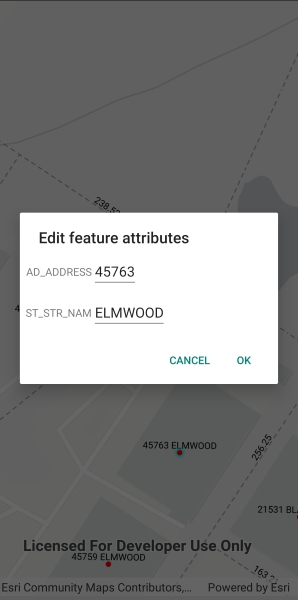
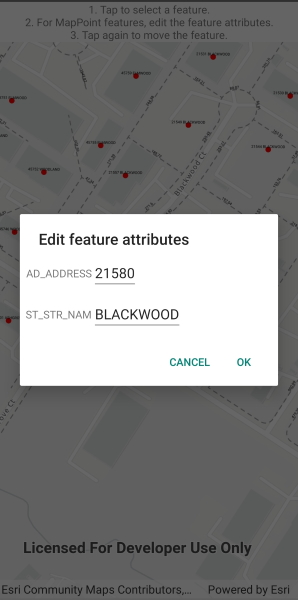
Added instructions label to all platforms

diff --git a/src/Forms/Shared/Samples/Data/EditFeatureLinkedAnnotation/EditFeatureLinkedAnnotation.xaml b/src/Forms/Shared/Samples/Data/EditFeatureLinkedAnnotation/EditFeatureLinkedAnnotation.xaml
@@ -8,44 +8,47 @@
             BindingContext="{x:Reference Name=ResponsiveFormContainer}"
             GeoViewTapped="MyMapView_GeoViewTapped"
             Style="{StaticResource MapWithFormStyle}" />
-        <resources:ResponsiveFormContainer x:Name="ResponsiveFormContainer" IsVisible="false">
-            <Grid>
-                <Grid.RowDefinitions>
-                    <RowDefinition Height="Auto" />
-                    <RowDefinition Height="Auto" />
-                    <RowDefinition Height="Auto" />
-                    <RowDefinition Height="Auto" />
-                </Grid.RowDefinitions>
-                <Grid.ColumnDefinitions>
-                    <ColumnDefinition Width="Auto" />
-                    <ColumnDefinition />
-                </Grid.ColumnDefinitions>
-                <Label
-                    Grid.Row="0" Grid.Column="0" Grid.ColumnSpan="2"
-                    Text="Edit feature attribute:" />
-                <Label
-                    Grid.Row="1" Grid.Column="0"
-                    Text="AD_ADDRESS" VerticalTextAlignment="Center" />
-                <Entry
-                    x:Name="AdressBox"
-                    Grid.Row="1" Grid.Column="1"
-                    Margin="5" />
-                <Label
-                    Grid.Row="2" Grid.Column="0"
-                    Text="ST_STR_NAM" VerticalTextAlignment="Center" />
-                <Entry
-                    x:Name="StreetNameBox"
-                    Grid.Row="2" Grid.Column="1"
-                    Margin="5" />
-                <Button
-                    Grid.Row="3" Grid.Column="0"
-                    Margin="5"
-                    Clicked="CancelClick" Text="Cancel" />
-                <Button
-                    Grid.Row="3" Grid.Column="1"
-                    Margin="5"
-                    Clicked="OkClick" Text="OK" />
-            </Grid>
+        <resources:ResponsiveFormContainer x:Name="ResponsiveFormContainer">
+            <StackLayout>
+                <Label x:Name="InstructionsText" Text="1. Tap to select a feature.&#x0a;2. For MapPoint features, edit the feature attributes.&#x0a;3. Tap again to move the feature." />
+                <Grid x:Name="AttributesGrid" IsVisible="false">
+                    <Grid.RowDefinitions>
+                        <RowDefinition Height="Auto" />
+                        <RowDefinition Height="Auto" />
+                        <RowDefinition Height="Auto" />
+                        <RowDefinition Height="Auto" />
+                    </Grid.RowDefinitions>
+                    <Grid.ColumnDefinitions>
+                        <ColumnDefinition Width="Auto" />
+                        <ColumnDefinition />
+                    </Grid.ColumnDefinitions>
+                    <Label
+                        Grid.Row="0" Grid.Column="0" Grid.ColumnSpan="2"
+                        Text="Edit feature attribute:" />
+                    <Label
+                        Grid.Row="1" Grid.Column="0"
+                        Text="AD_ADDRESS" VerticalTextAlignment="Center" />
+                    <Entry
+                        x:Name="AdressBox"
+                        Grid.Row="1" Grid.Column="1"
+                        Margin="5" />
+                    <Label
+                        Grid.Row="2" Grid.Column="0"
+                        Text="ST_STR_NAM" VerticalTextAlignment="Center" />
+                    <Entry
+                        x:Name="StreetNameBox"
+                        Grid.Row="2" Grid.Column="1"
+                        Margin="5" />
+                    <Button
+                        Grid.Row="3" Grid.Column="0"
+                        Margin="5"
+                        Clicked="CancelClick" Text="Cancel" />
+                    <Button
+                        Grid.Row="3" Grid.Column="1"
+                        Margin="5"
+                        Clicked="OkClick" Text="OK" />
+                </Grid>
+            </StackLayout>
         </resources:ResponsiveFormContainer>
     </RelativeLayout>
 </ContentPage>

diff --git a/src/WPF/ArcGISRuntime.WPF.Viewer/Samples/Data/EditFeatureLinkedAnnotation/EditFeatureLinkedAnnotation.xaml b/src/WPF/ArcGISRuntime.WPF.Viewer/Samples/Data/EditFeatureLinkedAnnotation/EditFeatureLinkedAnnotation.xaml
@@ -4,6 +4,9 @@
     xmlns:esri="http://schemas.esri.com/arcgis/runtime/2013">
     <Grid>
         <esri:MapView x:Name="MyMapView" GeoViewTapped="MyMapView_GeoViewTapped" />
+        <Border Style="{StaticResource BorderStyle}"  HorizontalAlignment="Left">
+            <TextBlock Text="1. Click to select a feature.&#x0a;2. For MapPoint features, edit the feature attributes.&#x0a;3. Click again to move the feature."/>
+        </Border>
         <Border
             x:Name="AttributesBorder"
             Style="{StaticResource BorderStyle}"

diff --git a/src/UWP/ArcGISRuntime.UWP.Viewer/Samples/Data/EditFeatureLinkedAnnotation/EditFeatureLinkedAnnotation.xaml b/src/UWP/ArcGISRuntime.UWP.Viewer/Samples/Data/EditFeatureLinkedAnnotation/EditFeatureLinkedAnnotation.xaml
@@ -4,6 +4,9 @@
     xmlns:esriUI="using:Esri.ArcGISRuntime.UI.Controls">
     <Grid>
         <esriUI:MapView x:Name="MyMapView" GeoViewTapped="MyMapView_GeoViewTapped" />
+        <Border Style="{StaticResource BorderStyle}"  HorizontalAlignment="Left">
+            <TextBlock Text="1. Click to select a feature.&#x0a;2. For MapPoint features, edit the feature attributes.&#x0a;3. Click again to move the feature."/>
+        </Border>
         <Border
             x:Name="AttributesBorder"
             Style="{StaticResource BorderStyle}"

diff --git a/src/iOS/Xamarin.iOS/Samples/Data/EditFeatureLinkedAnnotation/EditFeatureLinkedAnnotation.cs b/src/iOS/Xamarin.iOS/Samples/Data/EditFeatureLinkedAnnotation/EditFeatureLinkedAnnotation.cs
@@ -205,15 +205,32 @@ namespace ArcGISRuntimeXamarin.Samples.EditFeatureLinkedAnnotation
 
             _myMapView = new MapView() { TranslatesAutoresizingMaskIntoConstraints = false };
 
+            UILabel helpLabel = new UILabel
+            {
+                Text = "1. Tap to select a feature.\n2. For MapPoint features, edit the feature attributes.\n3. Tap again to move the feature.",
+                AdjustsFontSizeToFitWidth = true,
+                TextAlignment = UITextAlignment.Left,
+                BackgroundColor = ApplicationTheme.BackgroundColor,
+                TextColor = ApplicationTheme.ForegroundColor,
+                Lines = 3,
+                TranslatesAutoresizingMaskIntoConstraints = false,
+            };
+
             // Add the views.
-            View.AddSubviews(_myMapView);
+            View.AddSubviews(_myMapView, helpLabel);
 
             // Lay out the views.
-            NSLayoutConstraint.ActivateConstraints(new[]{
-                _myMapView.TopAnchor.ConstraintEqualTo(View.SafeAreaLayoutGuide.TopAnchor),
-                _myMapView.BottomAnchor.ConstraintEqualTo(View.BottomAnchor),
-                _myMapView.LeadingAnchor.ConstraintEqualTo(View.LeadingAnchor),
-                _myMapView.TrailingAnchor.ConstraintEqualTo(View.TrailingAnchor)
+            NSLayoutConstraint.ActivateConstraints(new[]
+            {
+                helpLabel.TopAnchor.ConstraintEqualTo(View.SafeAreaLayoutGuide.TopAnchor),
+                helpLabel.LeadingAnchor.ConstraintEqualTo(View.SafeAreaLayoutGuide.LeadingAnchor),
+                helpLabel.TrailingAnchor.ConstraintEqualTo(View.SafeAreaLayoutGuide.TrailingAnchor),
+                helpLabel.HeightAnchor.ConstraintEqualTo(80),
+
+                _myMapView.TopAnchor.ConstraintEqualTo(helpLabel.BottomAnchor),
+                _myMapView.BottomAnchor.ConstraintEqualTo(View.SafeAreaLayoutGuide.BottomAnchor),
+                _myMapView.LeadingAnchor.ConstraintEqualTo(View.SafeAreaLayoutGuide.LeadingAnchor),
+                _myMapView.TrailingAnchor.ConstraintEqualTo(View.SafeAreaLayoutGuide.TrailingAnchor),
             });
         }
 

diff --git a/src/Forms/Shared/Samples/Data/EditFeatureLinkedAnnotation/EditFeatureLinkedAnnotation.xaml.cs b/src/Forms/Shared/Samples/Data/EditFeatureLinkedAnnotation/EditFeatureLinkedAnnotation.xaml.cs
@@ -156,7 +156,8 @@ namespace ArcGISRuntimeXamarin.Samples.EditFeatureLinkedAnnotation
         {
             // Show entry UI.
             MyMapView.IsEnabled = false;
-            ResponsiveFormContainer.IsVisible = true;
+            InstructionsText.IsVisible = false;
+            AttributesGrid.IsVisible = true;
 
             // Populate entry fields with data from feature.
             AdressBox.Text = _selectedFeature.Attributes["AD_ADDRESS"].ToString();
@@ -180,7 +181,8 @@ namespace ArcGISRuntimeXamarin.Samples.EditFeatureLinkedAnnotation
             {
                 // Hide entry UI.
                 MyMapView.IsEnabled = true;
-                ResponsiveFormContainer.IsVisible = false;
+                InstructionsText.IsVisible = true;
+                AttributesGrid.IsVisible = false;
             }
         }
 
@@ -188,7 +190,8 @@ namespace ArcGISRuntimeXamarin.Samples.EditFeatureLinkedAnnotation
         {
             // Hide entry UI.
             MyMapView.IsEnabled = true;
-            ResponsiveFormContainer.IsVisible = false;
+            InstructionsText.IsVisible = true;
+            AttributesGrid.IsVisible = false;
         }
     }
 }

diff --git a/src/Android/Xamarin.Android/Samples/Data/EditFeatureLinkedAnnotation/EditFeatureLinkedAnnotation.cs b/src/Android/Xamarin.Android/Samples/Data/EditFeatureLinkedAnnotation/EditFeatureLinkedAnnotation.cs
@@ -10,6 +10,7 @@
 using Android.App;
 using Android.Graphics;
 using Android.OS;
+using Android.Views;
 using Android.Widget;
 using ArcGISRuntime;
 using ArcGISRuntime.Samples.Managers;
@@ -206,6 +207,15 @@ namespace ArcGISRuntimeXamarin.Samples.EditFeatureLinkedAnnotation
         {
             // Create a new vertical layout for the app.
             var layout = new LinearLayout(this) { Orientation = Orientation.Vertical };
+
+            // Create the help label.
+            TextView helpLabel = new TextView(this);
+            helpLabel.Text = "1. Tap to select a feature.\n2. For MapPoint features, edit the feature attributes.\n3. Tap again to move the feature.";
+            helpLabel.TextAlignment = TextAlignment.TextStart;
+            helpLabel.Gravity = GravityFlags.Center;
+
+            // Add the help label to the layout.
+            layout.AddView(helpLabel);
 
             // Add the map view to the layout.
             _myMapView = new MapView(this);
